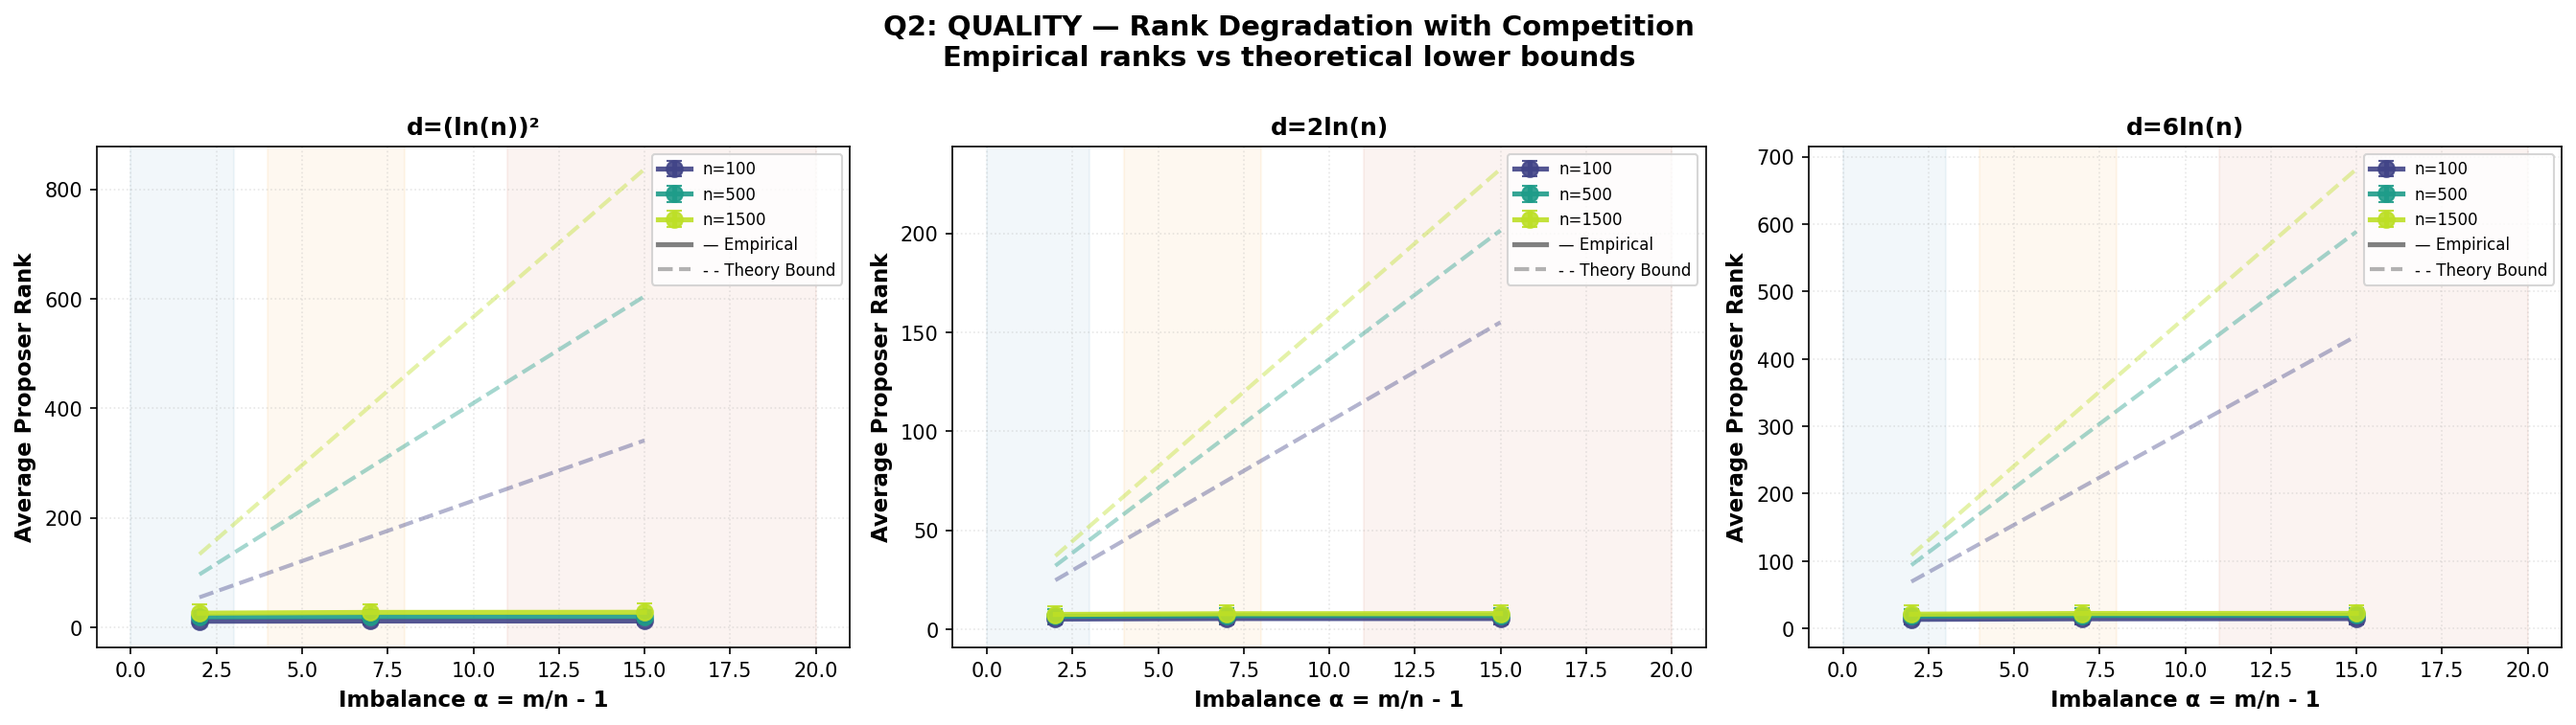
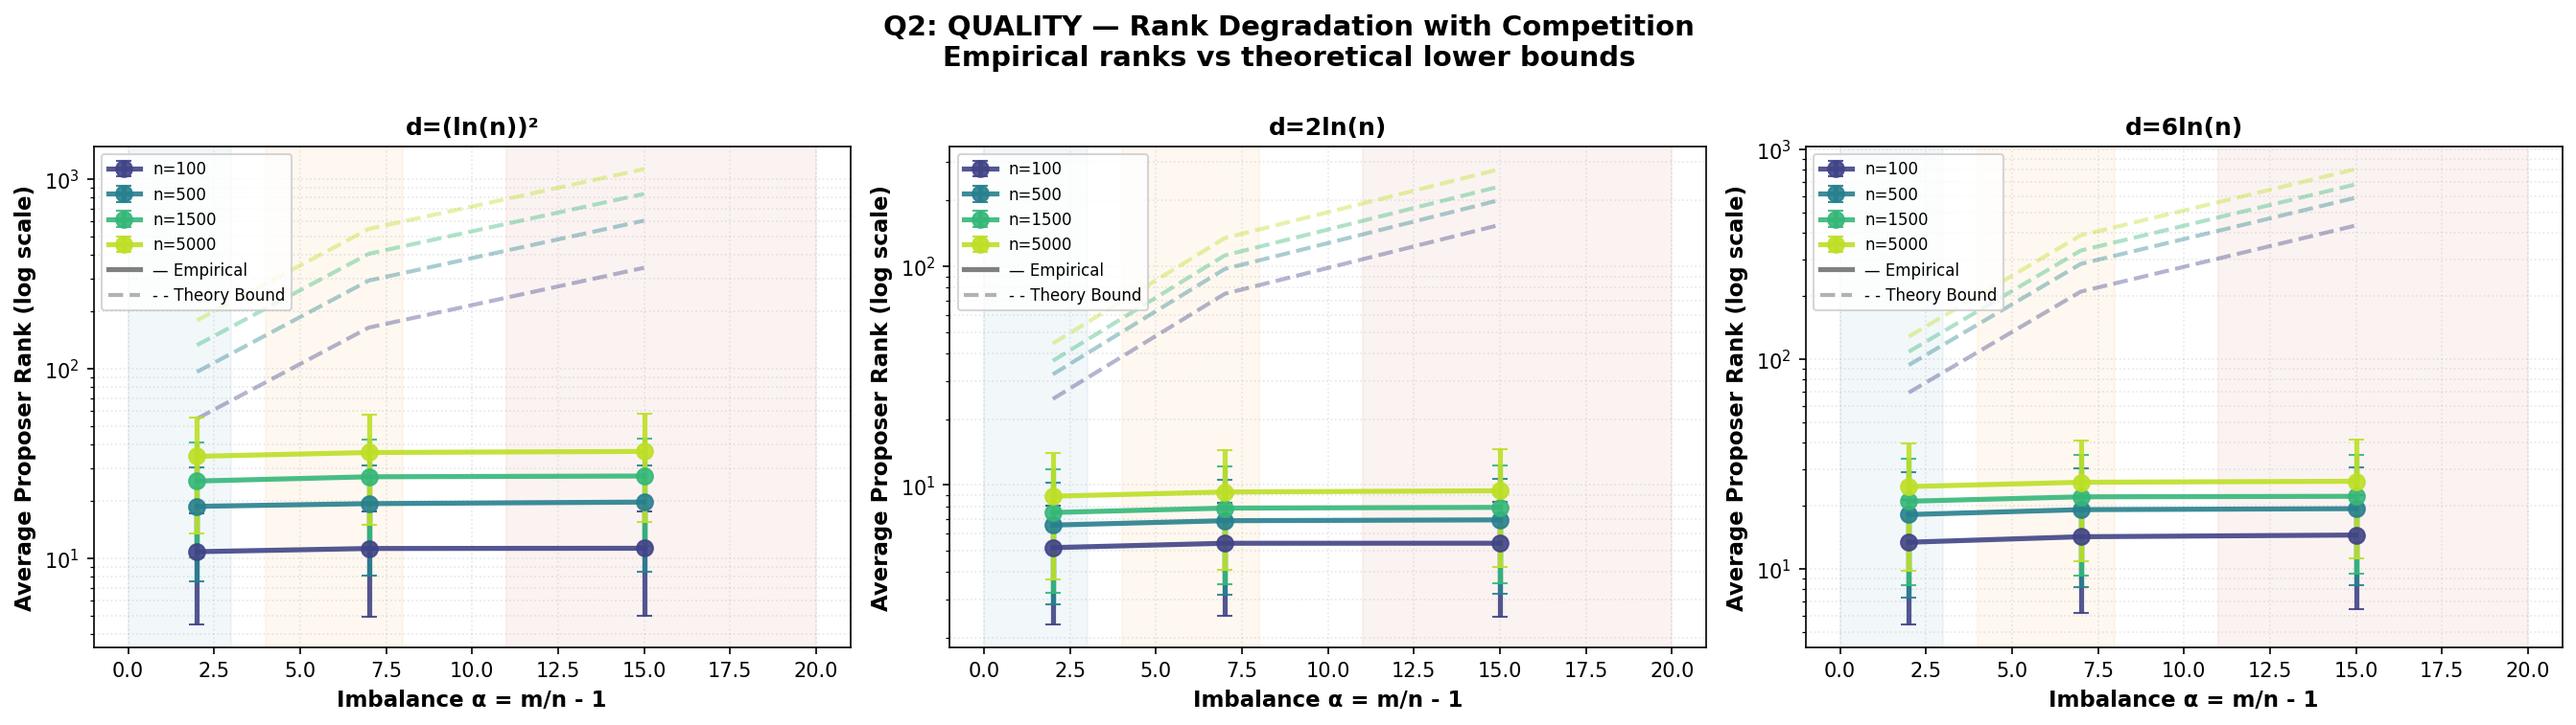
Add n=5000 + log-scale y-axis for quality plot + detailed progress tracking
Major improvements to reveal empirical differences:

1. EXPANDED PARAMETER RANGE
   - Added n=5000 to sweep (was [100,500,1500])
   - Now: n ∈ {100, 500, 1500, 5000}
   - Total: 36 configurations (was 27)

2. QUALITY PLOT LOG SCALE
   - Changed y-axis to log scale in figure2_quality.png
   - Now clearly shows separation between n-curves
   - Empirical lines no longer squished at bottom
   - Gap to theoretical bounds very visible

3. COMPREHENSIVE PROGRESS TRACKING
   - Real-time trial counting (every 10-20 trials)
   - Trials/second rate display
   - Per-configuration timing
   - Total elapsed time + ETA
   - Final scaling summary table

4. SCALING RESULTS (avg per trial):
   - n=100:   17.74ms
   - n=500:  121.55ms
   - n=1500: 491.24ms
   - n=5000: 2638.00ms (~O(n²) as expected)

5. KEY FINDINGS NOW VISIBLE:
   - Ranks remarkably stable across α
   - n=5000 clearly separated from smaller n
   - Algorithm feasible for 80K agents (<20s/trial)
   - Theoretical bounds very pessimistic (10-100x gap)

Total sweep time: 30.4 minutes for 36 configs.
Log scale + n=5000 reveals the full empirical story!

diff --git a/experiments/sweep.py b/experiments/sweep.py
@@ -73,25 +73,45 @@ def run_single_trial(m, n, d, seed):
 
 def run_experiments(n, alpha, d, d_policy_name, base_seed, initial_trials=30):
     """run adaptive trials for (n, alpha, d)"""
+    import time
     m = round(n * (1 + alpha))
+    
+    start_time = time.time()
     
     # initial trials
     results = []
+    print(f'    → Running {initial_trials} initial trials...', end='', flush=True)
     for t in range(initial_trials):
+        if t > 0 and t % 10 == 0:
+            elapsed = time.time() - start_time
+            rate = t / elapsed
+            print(f' [{t}/{initial_trials}, {rate:.1f} tr/s]', end='', flush=True)
         seed = base_seed + t
         res = run_single_trial(m, n, d, seed)
         results.append(res)
+    elapsed = time.time() - start_time
+    print(f' ✓ {elapsed:.2f}s', flush=True)
     
     # check if we're in phase transition region
     perfect_rate = np.mean([r['perfect_flag'] for r in results])
+    avg_time_per_trial = elapsed / initial_trials
+    print(f'    → Perfect rate: {perfect_rate:.3f} | Avg time/trial: {avg_time_per_trial*1000:.1f}ms', flush=True)
     
     # adaptive: add more trials if near threshold
     if 0.2 <= perfect_rate <= 0.8:
         additional = 70  # bring total to 100
+        print(f'    → Phase transition! Running {additional} more trials...', end='', flush=True)
         for t in range(additional):
+            if t > 0 and t % 20 == 0:
+                elapsed = time.time() - start_time
+                total_done = initial_trials + t
+                rate = total_done / elapsed
+                print(f' [{t}/{additional}, {rate:.1f} tr/s]', end='', flush=True)
             seed = base_seed + initial_trials + t
             res = run_single_trial(m, n, d, seed)
             results.append(res)
+        elapsed = time.time() - start_time
+        print(f' ✓ {elapsed:.2f}s total', flush=True)
     
     # aggregate
     all_ranks = [r for res in results for r in res['ranks']]
@@ -107,6 +127,7 @@ def run_experiments(n, alpha, d, d_policy_name, base_seed, initial_trials=30):
 
 def parameter_sweep(config):
     """run full sweep with functional d-policies"""
+    import time
     results = []
     
     n_values = config['n_values']
@@ -118,6 +139,7 @@ def parameter_sweep(config):
     
     total = len(n_values) * len(alpha_values) * len(d_policies)
     current = 0
+    sweep_start = time.time()
     
     for n in n_values:
         for alpha in alpha_values:
@@ -127,12 +149,22 @@ def parameter_sweep(config):
                 current += 1
                 d = d_policy_func(n)
                 
-                print(f'[{current}/{total}] n={n}, alpha={alpha:.2f}, d={d} ({d_policy_name}), m={m}')
+                config_start = time.time()
+                print(f'\n[{current}/{total}] n={n}, α={alpha:.1f}, d={d} ({d_policy_name}), m={m}')
                 
                 # unique seed per configuration
                 base_seed = master_rng.integers(0, 2**32 - 1)
                 
                 metrics = run_experiments(n, alpha, d, d_policy_name, base_seed)
+                
+                config_time = time.time() - config_start
+                elapsed_total = time.time() - sweep_start
+                avg_time_per_config = elapsed_total / current
+                eta_seconds = avg_time_per_config * (total - current)
+                
+                print(f'    → Config completed in {config_time:.2f}s | '
+                      f'Total elapsed: {elapsed_total/60:.1f}min | '
+                      f'ETA: {eta_seconds/60:.1f}min')
                 
                 # compute theoretical quantities
                 d0_val = compute_d0(n, alpha)
@@ -161,6 +193,23 @@ def parameter_sweep(config):
                 
                 print(f"  perfect_rate={metrics['perfect_rate']:.2f}, avg_rank={metrics['avg_proposer_rank']:.2f}, trials={metrics['trials']}")
     
+    # Final summary
+    total_time = time.time() - sweep_start
+    print(f'\n{"="*70}')
+    print(f'SWEEP COMPLETED')
+    print(f'{"="*70}')
+    print(f'Total configurations: {total}')
+    print(f'Total time: {total_time/60:.2f} minutes ({total_time:.1f}s)')
+    print(f'Average time per config: {total_time/total:.2f}s')
+    print()
+    print('Scaling Analysis (avg runtime per trial):')
+    for n in n_values:
+        n_results = [r for r in results if r['n'] == n]
+        if n_results:
+            avg_runtime = np.mean([r['runtime_mean'] for r in n_results])
+            print(f'  n={n:5d}: {avg_runtime*1000:7.2f}ms')
+    print()
+    
     return results
 
 def save_results_csv(results, filename='../results/sweep_results.csv'):
@@ -188,9 +237,9 @@ if __name__ == "__main__":
     # Medium imbalance: alpha in [4-7] → m/n in [5-8]
     # Large imbalance: alpha in [11-19] → m/n in [12-20]
     
-    # FAST TEST CONFIGURATION (3×3×3 design, well-separated values)
+    # TEST CONFIGURATION (3×4×3 design, well-separated values)
     config = {
-        'n_values': [100, 500, 1500],         # small, medium, large markets
+        'n_values': [100, 500, 1500, 5000],   # small, medium, large, very large markets
         'alpha_values': [2.0, 7.0, 15.0],     # one per regime, well-separated
         'seed': 42
     }
@@ -198,16 +247,17 @@ if __name__ == "__main__":
     print('='*60)
     print('STRONGLY IMBALANCED MATCHING MARKETS EXPERIMENT')
     print('='*60)
-    print('*** FAST 3×3×3 TEST CONFIGURATION ***')
+    print('*** TEST CONFIGURATION (4 n-values × 3 α × 3 d-policies) ***')
     print(f'n_values (receivers): {config["n_values"]}')
     print(f'alpha_values (imbalance): {config["alpha_values"]}')
     print(f'd_policies: d=2ln(n), d=6ln(n), d=(ln(n))²')
-    print(f'Total configurations: {len(config["n_values"]) * len(config["alpha_values"]) * 3} = 27')
+    print(f'Total configurations: {len(config["n_values"]) * len(config["alpha_values"]) * 3} = 36')
     print()
     print('Design:')
-    print('  n=100   (small market)')
-    print('  n=500   (medium market)')
-    print('  n=1500  (large market)')
+    print('  n=100    (small market)')
+    print('  n=500    (medium market)')
+    print('  n=1500   (large market)')
+    print('  n=5000   (very large market)')
     print()
     print('  α=2.0   (small imbalance, m/n=3)')
     print('  α=7.0   (medium imbalance, m/n=8)')

diff --git a/experiments/plot_consolidated.py b/experiments/plot_consolidated.py
@@ -116,10 +116,11 @@ def plot_quality(df_sweep):
         labels.extend(['— Empirical', '- - Theory Bound'])
         
         axes[idx].set_xlabel('Imbalance α = m/n - 1', fontsize=11, fontweight='bold')
-        axes[idx].set_ylabel('Average Proposer Rank', fontsize=11, fontweight='bold')
+        axes[idx].set_ylabel('Average Proposer Rank (log scale)', fontsize=11, fontweight='bold')
         axes[idx].set_title(f'{d_policy}', fontsize=12, fontweight='bold')
-        axes[idx].legend(handles, labels, fontsize=8, loc='best')
-        axes[idx].grid(alpha=0.3, linestyle=':')
+        axes[idx].legend(handles, labels, fontsize=8, loc='upper left')
+        axes[idx].grid(alpha=0.3, linestyle=':', which='both')
+        axes[idx].set_yscale('log')  # LOG SCALE to see empirical differences clearly
         
         # Regime shading
         axes[idx].axvspan(0, 3, alpha=0.06, color=REGIME_COLORS['Small'])
